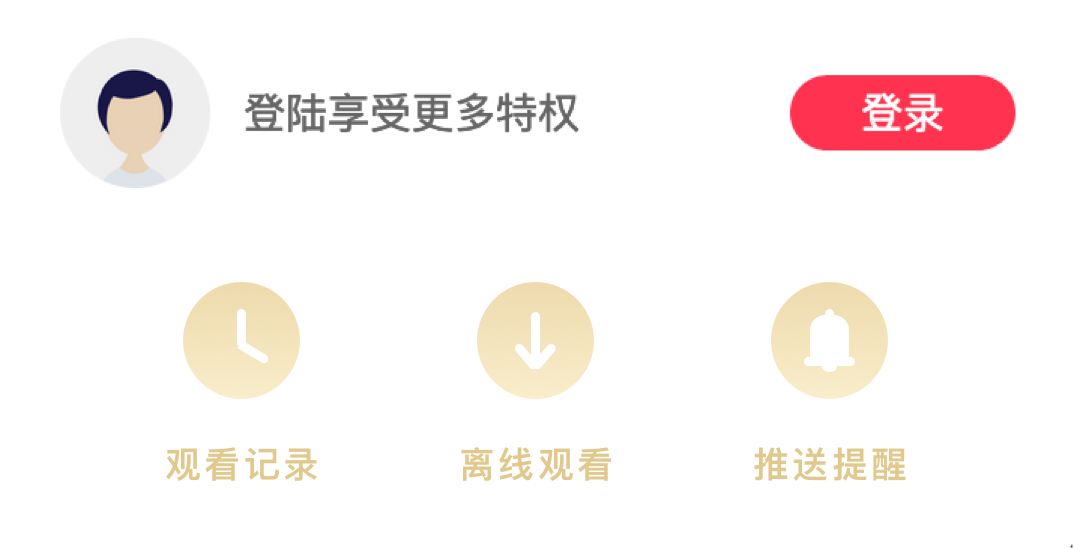
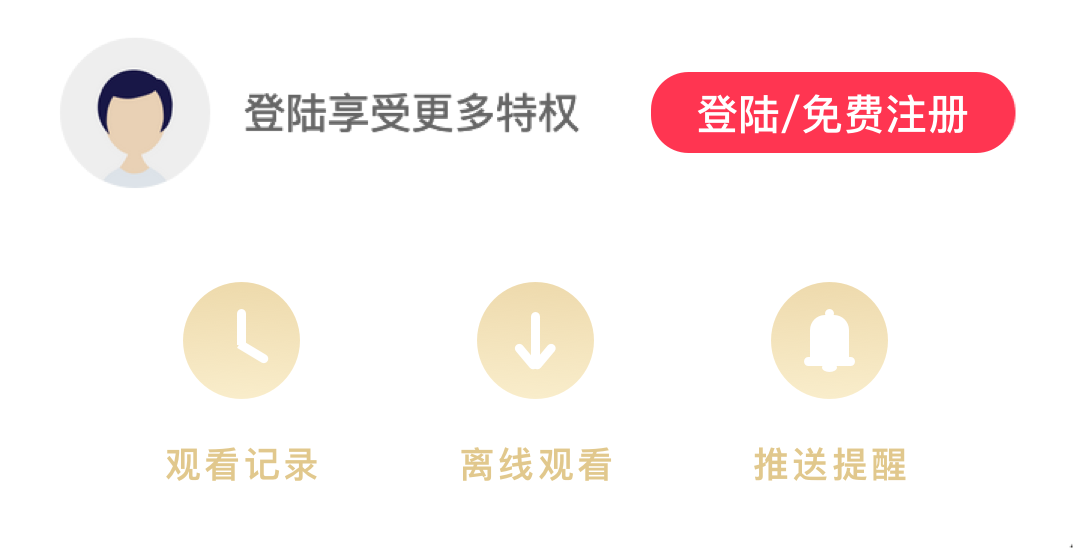
3/1

Changed region(s): [[0.5838, 0.1239, 0.9218, 0.2787]]

diff --git a/DC Metro Ticket Machine Design.html b/DC Metro Ticket Machine Design.html
@@ -78,11 +78,15 @@
           <h2>My role</h2>
             <p>I worked with my teammates to design the new DC Metro ticket machine interface. As the leader of the team, I was mainly responsible for ideation, user testing, user interface design and prototyping in the project.</p>
           <h2>Problem</h2>
+          <div class="col-xl-11 col-lg-10 align-items-center mx-auto">
+                  <img class="img-fluid mb-3 mb-lg-7" style="border-radius: .5rem;" src="img/dc%20metro.png" alt="">
+                  <p class="note text-center">DC Metro ticket machine</p>
+          </div>
             <p class="mb-1">The outdated ticket machine, as the only way for passengers to purchase tickets, passes and metro cards, does not provide a user-friendly experience. At peak times and holiday seasons, a passenger could wait up to 8 minutes for his/her turn to use the ticket machine.</p>
             <p>Based on our observation and interviews, the following factors that lead to difficulties have been summed up. </p>
               <div class="col-xl-11 col-lg-10 align-items-center mx-auto">
-                      <img class="img-fluid mb-3 mb-lg-7" style="border-radius: .5rem;" src="img/dc%20metro.png" alt="">
-                      <p class="note text-center">DC Metro ticket machine</p>
+                      <img class="img-fluid mb-3 mb-lg-7" style="border-radius: .5rem;" src="img/metro-q1.png" alt="">
+                      <p class="note text-center">Analysis</p>
               </div>
           <h5>1. Terrible hardware and user interface design.</h5>
             <ul>
@@ -98,7 +102,7 @@
             <ul>
             <li class="mb-2">Users who want to buy tickets or passes are often confused since there are no instructions to guide them. </li>
             <li class="mb-2">There are no buttons assigned for calling out the reload page, instead, users are required to swipe their cards.</li>
-            <li class="mb-4">Complex and non-automated fare calculation.</li>
+            <li class="mb-5">Complex and non-automated fare calculation.</li>
             </ul>
           <h2>Goal</h2>
             <p class="mb-1">To build a user interface that meets the user's psychological expectations, so that users can quickly complete the purchase process without additional guidance.</p>
@@ -126,7 +130,11 @@
               </div>
                   <p class="note text-center mb-5">Current user flow of the outdated ticket machine</p>
             <p class="mb-1">We referred to mature ticket vending systems in many cities, such as Beijing, Singapore, Hong Kong, London, New York, then proposed the new DC Metro ticket machine user flow. </p>
-            <p>Furthermore, after user testing, we have modified part of the user flow, which is displayed in blue.</p>
+            <div class="col-xl-12 col-lg-12 align-items-center mx-auto">
+               <img class="img-fluid mb-2 mt-4 mb-lg-7" src="img/metro-ca.png" alt="">
+               <p class="note text-center mb-5">Competitor analysis</p>
+            </div>
+            <p>Furthermore, after three iterations of user testing, we have modified part of the user flow, which is displayed in blue and green. In the new flow, the process is greatly simplified, and new shortcuts are created to allow users to reach the target step directly.</p>
 
             <div class="col-xl-12 col-lg-12 align-items-center mx-auto">
                <img class="img-fluid mb-2 mb-lg-7" src="img/user%20flow%20new.png" alt="">
@@ -166,12 +174,37 @@
                  <p class="note text-center mb-5">Wireframe of purchase ticket</p>
               </div>
 
-          <h2>Prototype</h2>
-          <h4>Initial design</h4>
-            <p>The initial design aims at being a minimum viable product, which allows us to quickly enter the user testing phase.</p>
-          <h4>User testing</h4>
-            <p>Applying the method of agile development and lean UX, we performed two user testing on the minimum viable product and finally formed a redesigned prototype after two iterations.</p>
-          <h4>Redesign</h4>
+
+          <h2>Initial design</h2>
+            <p>The initial design aims at being the first prototype which allows us to quickly enter the user testing phase.</p>
+            <div class="col-xl-8 col-lg-8 col-md-6 col-sm-8 align-items-center mx-auto">
+               <img class="img-fluid mb-4 mb-lg-4 shadow" style="border-radius: .5rem;" src="img/metro-design1.png" alt="">
+               <p class="note text-center mb-5">Initial prototype</p>
+            </div>
+          <h2>Usability testing</h2>
+            <p>The usability test we designed includes two parts: observation and interview. The users used the prototype to complete the three specified tasks and answered the relevant questions. Through the usability test, we have summarized the following pain points. </p>
+            <ul>
+            <li class="mb-2">80% of travelers use the metro to go to the most popular tourist destinations, such as the White House, Congress or the Cherry Blossom Festival. They know the metro station of their destination. </li>
+            <li class="mb-2">Users have a great demand for round-trip tickets so that they don't have to buy tickets at metro stations near crowded tourist attractions. </li>
+            <li class="mb-2">There are many metro lines, it is very laborious to find metro station on the map. </li>
+            <li class="mb-2">Non-native English speakers find it unfriendly to use the search box. </li>
+            <li class="mb-2 ">The payment process is not clear and there is no guidance. </li>
+
+
+            <!-- <li class="mb-2">There are too many clicks to complete the process. </li>
+            <li class="mb-2">There are too many metro lines and platforms, it is very troublesome to find them. </li>
+            <li class="mb-2">‘Start over’ button is confusing.</li>
+            <li class="mb-2">Writing in payment process is not clear. </li>
+            <li class="mb-2">Users want to be able to see the total price of the fare at any time, not just how much is remaining to be inserted. </li>
+            <li class="mb-5">Some steps require users to click the ‘next’ button, but the button is not apparent and could be ignored. </li> -->
+          </ul>
+          <p></p>
+
+          <h2>Second version</h2>
+            <p>Compared to the first version, my team has improved the user flow. We fixed the issues and discovered that adding a shortcut channel on the homepage to divert users can help some users with clear goals complete the ticket purchase process more quickly. At the same time, map option has been added to meet the needs of users. </p>
+
+          <h2>Finaly prototype</h2>
+            <p>We adjusted the visual design of the interface and optimized details. For example, eliminating the "Next" button to allow the entire product to automate the process, adding payment instructions, etc. </p>
             <h5>Comfort - Multi-language options for user convenience</h5>
             <div class="col-xl-12 col-lg-12 col-md-12 col-sm-10 align-items-center mx-auto">
                <img class="img-fluid mb-4 mb-lg-7 shadow" src="img/metro-lang.gif" style="border-radius: .5rem;" alt="">
@@ -187,7 +220,7 @@
               <p>Users are provided with three ways to choose a station. There are choosing by line view, map view, and alphabet.</p>
                       <div class="col-xl-12 col-lg-12 col-md-12 col-sm-10 align-items-center mx-auto">
                          <img class="img-fluid mb-4 mb-lg-7 shadow" src="img/metro-map%20new%201.png" style="border-radius: .5rem;" alt="">
-                         <p class="note text-center mb-5">Station choosing</p>
+                         <p class="note text-center mb-5">Map view</p>
                       </div>
                       <div class="col-xl-12 col-lg-12 col-md-12 col-sm-10 align-items-center mx-auto">
                          <img class="img-fluid mb-4 mb-lg-7 shadow" src="img/metro-map%20new%202.gif" style="border-radius: .5rem;" alt="">
@@ -198,21 +231,17 @@
                          <p class="note text-center mb-5">Line view</p>
                       </div>
             <h5>Automation - a flexible selection design</h5>
-              <p>The amount of the fare to be added will be automatically calculated and dynamically displayed when the user makes the payment.</p>
-              <p>After the added amount reaches the ticket fare, it will automatically jump to the next page without further operation.</p>
-                      <div class="col-xl-12 col-lg-12 col-md-12 col-sm-10 align-items-center mx-auto">
-                         <img class="img-fluid mb-4 mb-lg-7 shadow" src="img/metro-amount%20varies.gif" style="border-radius: .5rem;" alt="">
-                         <p class="note text-center mb-5">Fare changes after the amount received</p>
-                      </div>
+              <p>It automatically calculates how much the user have inserted and dynamically displays how much is still remaining.</p>
+              <p>After the added amount reaches the ticket fare, it will automatically jump to the next page without further operation by the user.</p>
                       <div class="col-xl-12 col-lg-12 col-md-12 col-sm-10 align-items-center mx-auto">
                          <img class="img-fluid mb-4 mb-lg-7 shadow" src="img/metro-amount-collect.gif" style="border-radius: .5rem;" alt="">
                          <p class="note text-center mb-5">Automatically jumping to the print ticket page after full amount received</p>
                       </div>
             <h5>Fault tolerance - ‘Go Back’ and ‘Cancel’ buttom added</h5>
-              <p>'Go Back' button allows the user to return to the previous step and it will only appear when the return operation is available. 'Cancel' button gives the user an option to exit the current process and return to the homepage.</p>
+              <p>'Go Back' button allows the user to return to the previous step and it will only appear when the cancel operation is available. 'Cancel' button gives the user an option to exit the current process and return to the homepage.</p>
                       <div class="col-xl-12 col-lg-12 col-md-12 col-sm-10 align-items-center mx-auto">
                          <img class="img-fluid mb-4 mb-lg-7 shadow" src="img/metro-back.gif" style="border-radius: .5rem;" alt="">
-                         <p class="note text-center mb-5">'Go Back' and 'Cancel'</p>
+                         <p class="note text-center mb-5">Canceling during buying process</p>
                       </div>
             <h5>Recognition - Visual cues kick in</h5>
               <p>Visual indicators are used in the design to show the current status and to prompt user for the action that needs to be taken.</p>
@@ -252,13 +281,55 @@
         <div class="col-lg-8 mx-auto text-left">
          <h1 class="mb-4">Part 2 </h1>
          <h1 class="mb-4">Metro Reload and Tracking App</h1>
-           <h2>Background</h2>
-            <p>Passengers, especially frequent riders, want to reload metro card as quickly as possible. It is an excellent idea to integrate the reload function into the mobile app. </p>
+           <h2>Product definition</h2>
+            <p>Metro stations are overcrowded during rush hours and the old ticket machines make the situation worse. Passengers, especially frequent riders, want to reload metro card as quickly as possible. It is an excellent idea to integrate the reload function into the mobile app. Therefore the purpose of this product is to allow daily commuters to skip the line and reload their metro card faster. </p>
+           <h2>Research</h2>
+             <p>This is a product from 0 to 1, so I first conducted user interviews to understand the real needs of users. </p>
+               <div class="col-xl-12 col-lg-12 col-md-12 col-sm-10 align-items-center mx-auto">
+                  <img class="img-fluid mb-4 mb-lg-7 shadow" src="img/metroapp-q1.png" style="border-radius: .5rem;" alt="">
+                  <p class="note text-center mb-5">Analysis</p>
+               </div>
+           <h2>Personas</h2>
+              <p>Brian, a 25-year-old company employee working in dc, uses the metro to commute between home and office every day. On weekends, he uses bus and metro with his friends to go to park hiking there.  Occasionally, he would use the long vacation to visit friends and family around the city. </p>
+           <h2>User stories</h2>
+            <p>User stories helped me to sort needs of user and determine priorities of the functionalists of the app for MVP.</p>
+              <div class="col-xl-12 col-lg-12 col-md-12 col-sm-10 align-items-center mx-auto">
+                 <img class="img-fluid mb-4 mb-lg-7 shadow" src="img/metroapp-us.png" style="border-radius: .5rem;" alt="">
+                 <p class="note text-center mb-5">User stories and empathy map</p>
+              </div>
+            <h2>User scenario </h2>
+            <div class="col-xl-12 col-lg-12 col-md-12 col-sm-10 align-items-center mx-auto">
+               <img class="img-fluid mb-4 mt-3 mb-lg-7 shadow" src="img/metroapp-us1.png" style="border-radius: .5rem;" alt="">
+               <p class="note text-center mb-5">User scenario</p>
+            </div>
+
+
            <h2>Ideation and MVP</h2>
             <p>The original app design only had the function of reloading the metro card. As a MVP, it confirmed that this app does solve the user's problem, that is, quickly complete the task of reloading metro card.</p>
+            <div class="col-xl-12 col-lg-12 col-md-12 col-sm-10 align-items-center mx-auto">
+               <img class="img-fluid mb-4 mt-3 mb-lg-7 shadow" src="img/metroapp-p1.png" style="border-radius: .5rem;" alt="">
+               <p class="note text-center mb-5">MVP prototype</p>
+            </div>
             <p>The disadvantage is that the only one function of the app is not enough to support all users, such as users who do not yet have a metro card. In addition, functional deficiencies will reduce the number of times users use apps, so that they gradually forget the existence of apps, which reduces user retention.</p>
             <img class="img-fluid mb-4 mb-lg-7" src="img/swot.png" alt="">
             <p class="note text-center mb-5">SWOT map</p>
+
+           <h2>Metrics</h2>
+            <ul>
+              <li>Time occupied</li>
+              <p>Users can complete the reload task within the prescribed time, 30 seconds in this case. Second, users can find the metro or bus schedule within 40 seconds. </p>
+              <li>Desirability</li>
+              <p>The user's rating of the app in the System Usability Scale should be higher than the grade B, that is, the average score is higher than 68.</p>
+            </ul>
+              <div class="col-xl-12 col-lg-12 col-md-12 col-sm-10 align-items-center mx-auto">
+                 <img class="img-fluid mb-4 mt-3 mb-lg-7 shadow" src="img/metroapp-m.png" style="border-radius: .5rem;" alt="">
+                 <p class="note text-center mb-5">Survey</p>
+              </div>
+              <div class="col-xl-12 col-lg-12 col-md-12 col-sm-10 align-items-center mx-auto">
+                 <img class="img-fluid mb-4 mt-3 mb-lg-7 shadow" src="img/metroapp-us2.png" style="border-radius: .5rem;" alt="">
+                 <p class="note text-center mb-5">Modified user stories</p>
+              </div>
+
            <h2>Redesign</h2>
             <p>The redesigned app contains the most desirable features, including a real-time bus tracking system and an online metro card reload system. It is dedicated to providing a whole new mobility enhancement for users.</p>
               <div class="col-xl-9 col-lg-9 col-md-9 col-sm-10 align-items-center mx-auto" >

diff --git a/italkbbtv.html b/italkbbtv.html
@@ -78,19 +78,45 @@
             <h2>Background</h2>
               <p>iTalkBB TV was launched as a video streaming platform in July 2019. Its goal is to provide high-quality video resources for audiences interested in Chinese related videos, such as Chinese drama, Chinese movies, and trending videos in the North American Chinese community.</p>
             <h2>My contribution</h2>
-              <p>I was invited to evaluate and improve the design of its key pages, especially the homepage with the product manager, from the perspective of user experience, in order to enhance the watching experience.</p>
+              <p>I was invited to evaluate and improve the design of its key page, that is the homepage, with the product manager, from the perspective of user experience, in order to enhance increase conversion and retention rates.</p>
             <h2>Problem</h2>
-              <p class="mb-3">As a website that has only been launched for a year, the design of the previous version was not optimized for its targeted user group. Moreover, the design also had some issues affecting user experience such as consistency and logic errors. The parts that needed to be modified are marked with flashing red.</p>
+              <p class="mb-3">As a website that has only been launched for a year, The overall design of the website could be considered an imperfect MVP. The design had some issues affecting user experience such as consistency and logic errors. The parts that I was working on are marked with flashing red.</p>
               <div class="col-xl-10 col-lg-10 align-items-center mx-auto">
                  <img class="img-fluid mb-4 mb-lg-4 shadow" src="img/italkbbtv1.gif" style="border-radius: .5rem;" alt="">
+                 <p class="note text-center">Questionnaire</p>
+              </div>
+
+            <h2>User research<h2>
+              <p>Due to Corona virus, I chose to use online questionnaire and online interview for the user research.  A total of 32 questionnaires were retrieved, one of which was incomplete. </p>
+              <p></p>
+              <div class="col-xl-10 col-lg-10 align-items-center mx-auto">
+                 <img class="img-fluid mb-4 mb-lg-4 shadow" src="img/italkbb-q1.png" style="border-radius: .5rem;" alt="">
                  <p class="note text-center">Old version of homepage</p>
               </div>
-            <h2>Menu</h2>
-              <p>After sorting out the data, I found that the majority of users are Chinese speakers, and more than half of them are non-resident alien, such as Chinese students and short term employees.
-                This means the targeted users are inclined to Asian style of user interface. Asian users usually have a stronger purpose when using products, therefore the search function is particularly important.
-                In the new design, the input box is added to the menu, which can be used as a first-level entrance for users to use the product. Additionally, placeholder is used effectively to display popular searches.</p>
-              <p>According to feedback, although some American-Chinese users are proficient in Chinese listening and speaking, they have difficulty reading Chinese characters, so the language switch option is added to the menu.</p>
-              <p>What's more, the menu shows which page the user is currently viewing. For example, ‘Home’ will be highlighted when the user is on homepage.</p>
+            <h2>Analysis<h2>
+              <p>Although native Chinese speaking or native Chinese and English speaking users account for the largest proportion, 4% of users still have difficulty reading the Chinese text content on the page. There is a case that a native Chinese and English speaking user are proficient in Chinese listening but are not familiar with Chinese characters. <strong>Therefore, it is necessary to add English descriptions.</strong> </p>
+              <p>78% of users come to the website to kill time, and more than 50% of users already have a target video they need to find when they use the website. <strong>Having a clear search box is closer to user needs.</strong> </p>
+              <p>More than half of users chose ‘Neutral’ in the homepage design satisfaction survey,  22% chose ‘Not satisfied’. In comparison with other websites with similar functions, <strong>I found that the users care about content attractiveness, function richness, and layout rationality.</strong> </p>
+              <p>Only 3% of testers are registered as members of italkbb tv. The top two factors that affect users' willingness to register are ‘reasonable price’ and ‘personalized customization’. Unfortunately, italkbb tv's free membership registration policy did not bring them a high conversion rate. In the online interview, the tester reported that he was not prompted about membership benefits and free registration functions at all. <strong>Therefore, making users aware of member benefits and free registration policy is the key.</strong> </p>
+              <p>In addition to video streaming, 41% of users also spend a lot of time browsing news, and other users are also looking for entertainment and shopping information. <strong>In order to capture users, it is necessary to show the functions and content that users expect. </strong></p>
+
+            <h2>Redesign / menu</h2>
+              <p>The search box replaces the search icon, and it displays a placeholders by default to guide users to search. </p>
+              <div class="col-xl-8 col-lg-8 align-items-center mx-auto">
+                 <img class="img-fluid mb-4 mb-lg-4 shadow" src="img/italkbb-r-m.png" alt="">
+                 <p class="note text-center">Search box</p>
+              </div>
+              <p>The icon where the user is located is underlined to remind the user where he is. For example, ‘Home’ will be underlined when the user is on homepage. </p>
+              <div class="col-xl-8 col-lg-8 align-items-center mx-auto">
+                 <img class="img-fluid mb-4 mb-lg-4 shadow" src="img/italkbb-r-m2.png" alt="">
+                 <p class="note text-center">Icon</p>
+              </div>
+              <p>English is added as one of the language options. </p>
+              <p>The background color is changed from black to white to make the logo easier to distinguish. </p>
+              <div class="col-xl-8 col-lg-8 align-items-center mx-auto">
+                 <img class="img-fluid mb-4 mb-lg-4 shadow" src="img/italkbb-r-m3.png" alt="">
+                 <p class="note text-center">Logo</p>
+              </div>
               <div class="col-xl-12 col-lg-12 align-items-center mx-auto">
                  <img class="img-fluid mb-4 mb-lg-4 shadow" src="img/italkbbmenu1.png" alt="">
                  <p class="note text-center">Previous version of menu</p>
@@ -103,11 +129,13 @@
                  <img class="img-fluid mb-4 mb-lg-4 shadow" src="img/italkbbmenu3.png" alt="">
                  <p class="note text-center">Modified menu (English)</p>
               </div>
-            <h2>Login</h2>
-              <p>In the old design, buttons with the same function have different forms, which caused confusion to users. For example, the login button appears in two shapes. In the new design, one of the login buttons is removed to maintain consistency.</p>
+
+
+            <h2>Redesign / login</h2>
+              <p>In the old design, buttons with the same login function have different forms, which caused confusion to users. For example, the login button appears in two shapes in the same modal. In the new design, one of the login buttons form is removed to maintain consistency.</p>
               <div class="col-xl-7 col-md-8 col-lg-8 align-items-center mx-auto">
                   <img class="img-fluid mb-4 mb-lg-4 shadow" src="img/italkbblogin1.png" style="border-radius: .5rem;" alt="">
-                  <p class="note text-center">Previous version of login</p>
+                  <p class="note text-center">Old version of login</p>
               </div>
               <p>In order to increase the activation rate, users need to be clearly shown the benefits they can enjoy after registration. My idea is to show directly what the exclusive benefits are for signup users, such as watching records, offline video and notification, to increase the attractiveness to unregistered users.</p>
               <div class="col-xl-7 col-md-8 col-lg-8 align-items-center mx-auto">
@@ -120,29 +148,43 @@
                   <p class="note text-center">Login window</p>
               </div>
 
-            <h2>Lists</h2>
+            <h2>Redesign / lists</h2>
               <p>An icon is added before the title for easy identification. As shown, a movie projector-style icon before the movie title.</p>
               <p>Clickable texts, in this case the movie tags, have been transformed into button-looking to better distinguish them from other texts.</p>
-              <p>In addition, in my previous investigation, I found that the confusing logic of buttons brought unnecessary thinking burden to users. Second, users do not understand the role of the 'Other' tag as the designer originally intended. In the designer’s imagination, the ‘Other’ tag works as a language related movie tag pointing to a page containing movies in languages other than Chinese and Cantonese, but in fact users often think it refers to movie tags such as action movies or science fiction movies. Moreover, in the a/b test where 'More' tag are eliminated, users consider it works the same as ‘All’ and ‘More’ in functionality.</p>
+              <p>In addition, I found that the confusing logic of buttons brought unnecessary thinking burden to users. In the designer’s imagination, the ‘Other’ tag works as a language related movie tag pointing to a page containing movies in languages other than Chinese and Cantonese, but in fact users often think it refers to movie tags such as action movies or science fiction movies. Moreover, in the a/b test where 'More' tag are eliminated, users consider it works the same as ‘All’ and ‘More’ in functionality.</p>
               <div class="col-xl-7 col-md-8 col-lg-8 align-items-center mx-auto">
                   <img class="img-fluid mb-4 mb-lg-4 shadow" src="img/italkbbmovie2.png" style="border-radius: .5rem;" alt="">
                   <p class="note text-center">Old version of movie list</p>
               </div>
               <div class="col-xl-7 col-md-8 col-lg-8 align-items-center mx-auto">
                   <img class="img-fluid mb-4 mb-lg-4 shadow" src="img/italkbbmovie1.png" style="border-radius: .5rem;" alt="">
-                  <p class="note text-center">Modified login</p>
+                  <p class="note text-center">Modified movie list</p>
               </div>
+
+              <h2>New section ‘北美都在看’</h2>
+                <p>The results of the user survey show that one of the main reasons for users to browse italkbb is to kill time, and users have a strong demand for news and information. Therefore, the purpose of this section is to take advantage of the resources of the website based in North America, in order to improve the retention rate of users by providing news occurring in North America. </p>
+                <div class="col-xl-10 col-md-10 col-lg-10 align-items-center mx-auto">
+                    <img class="img-fluid mb-4 mb-lg-4 shadow" src="img/italkbbbeimei.png" style="border-radius: .5rem;" alt="">
+                    <p class="note text-center">北美都在看</p>
+                </div>
+
 
             <h2>Design comparison</h2>
               <div class="col-xl-10 col-lg-10 align-items-center mx-auto mt-5">
                   <img class="img-fluid mb-4 mb-lg-4 shadow" src="img/italkbbold.png" style="border-radius: .5rem;" alt="">
-                  <p class="note text-center">Previous design</p>
+                  <p class="note text-center">Old version design</p>
               </div>
               <div class="col-xl-10 col-lg-10 align-items-center mx-auto">
                   <img class="img-fluid mb-4 mb-lg-4 shadow" src="img/italkbbnew.png" style="border-radius: .5rem;" alt="">
                   <p class="note text-center">Modified design</p>
               </div>
-
+            <h2>Outcome</h2>
+              <p>The results reported by 21 testers are positive for the improvement of the design. Among them, the user satisfaction rate has increased from an average score of 2.97 in the old version to an average score of 4.25 in the new design. This means that satisfaction has increased by 43%.</p>
+              <p>100% of users are aware that membership registration is free and the members enjoy benefits. 62% of users are willing to register as a member, which is a big improvement over the 3% membership registration rate in the old design. </p>
+              <div class="col-xl-10 col-lg-10 align-items-center mx-auto">
+                  <img class="img-fluid mb-4 mb-lg-4 shadow" src="img/italkbb-q2.png" style="border-radius: .5rem;" alt="">
+                  <p class="note text-center">Survey</p>
+              </div>
 
 
 
